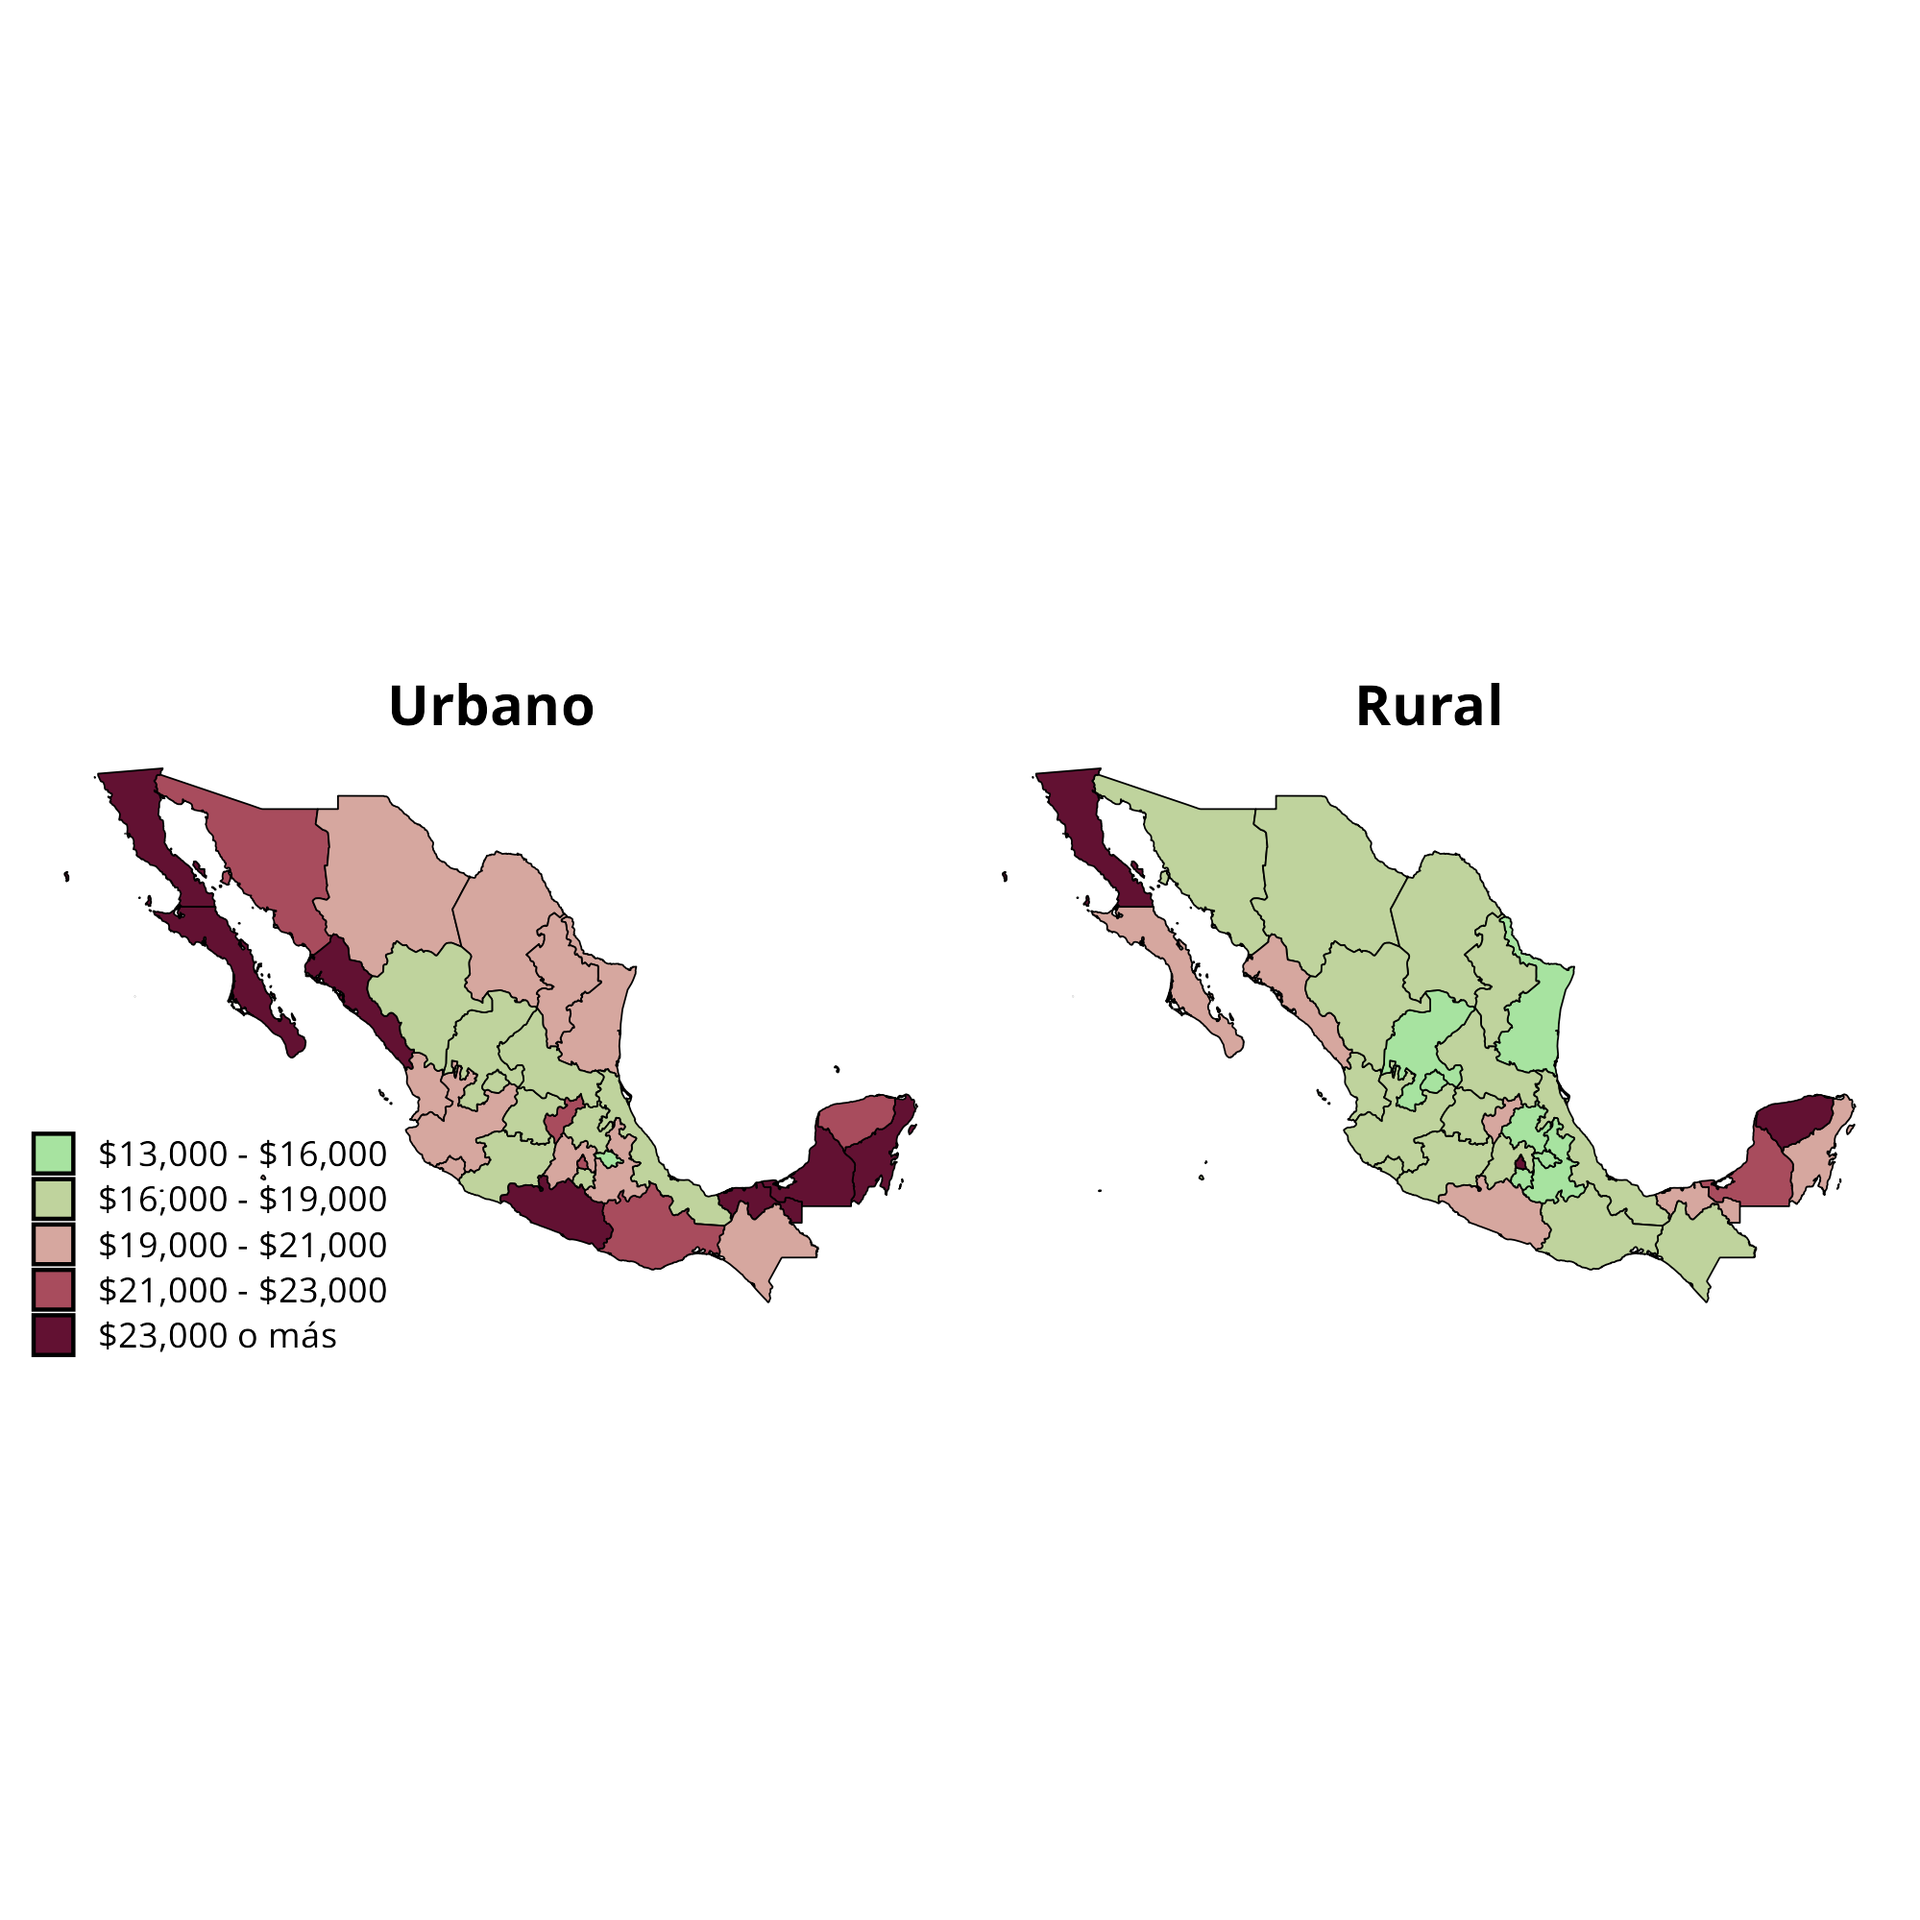
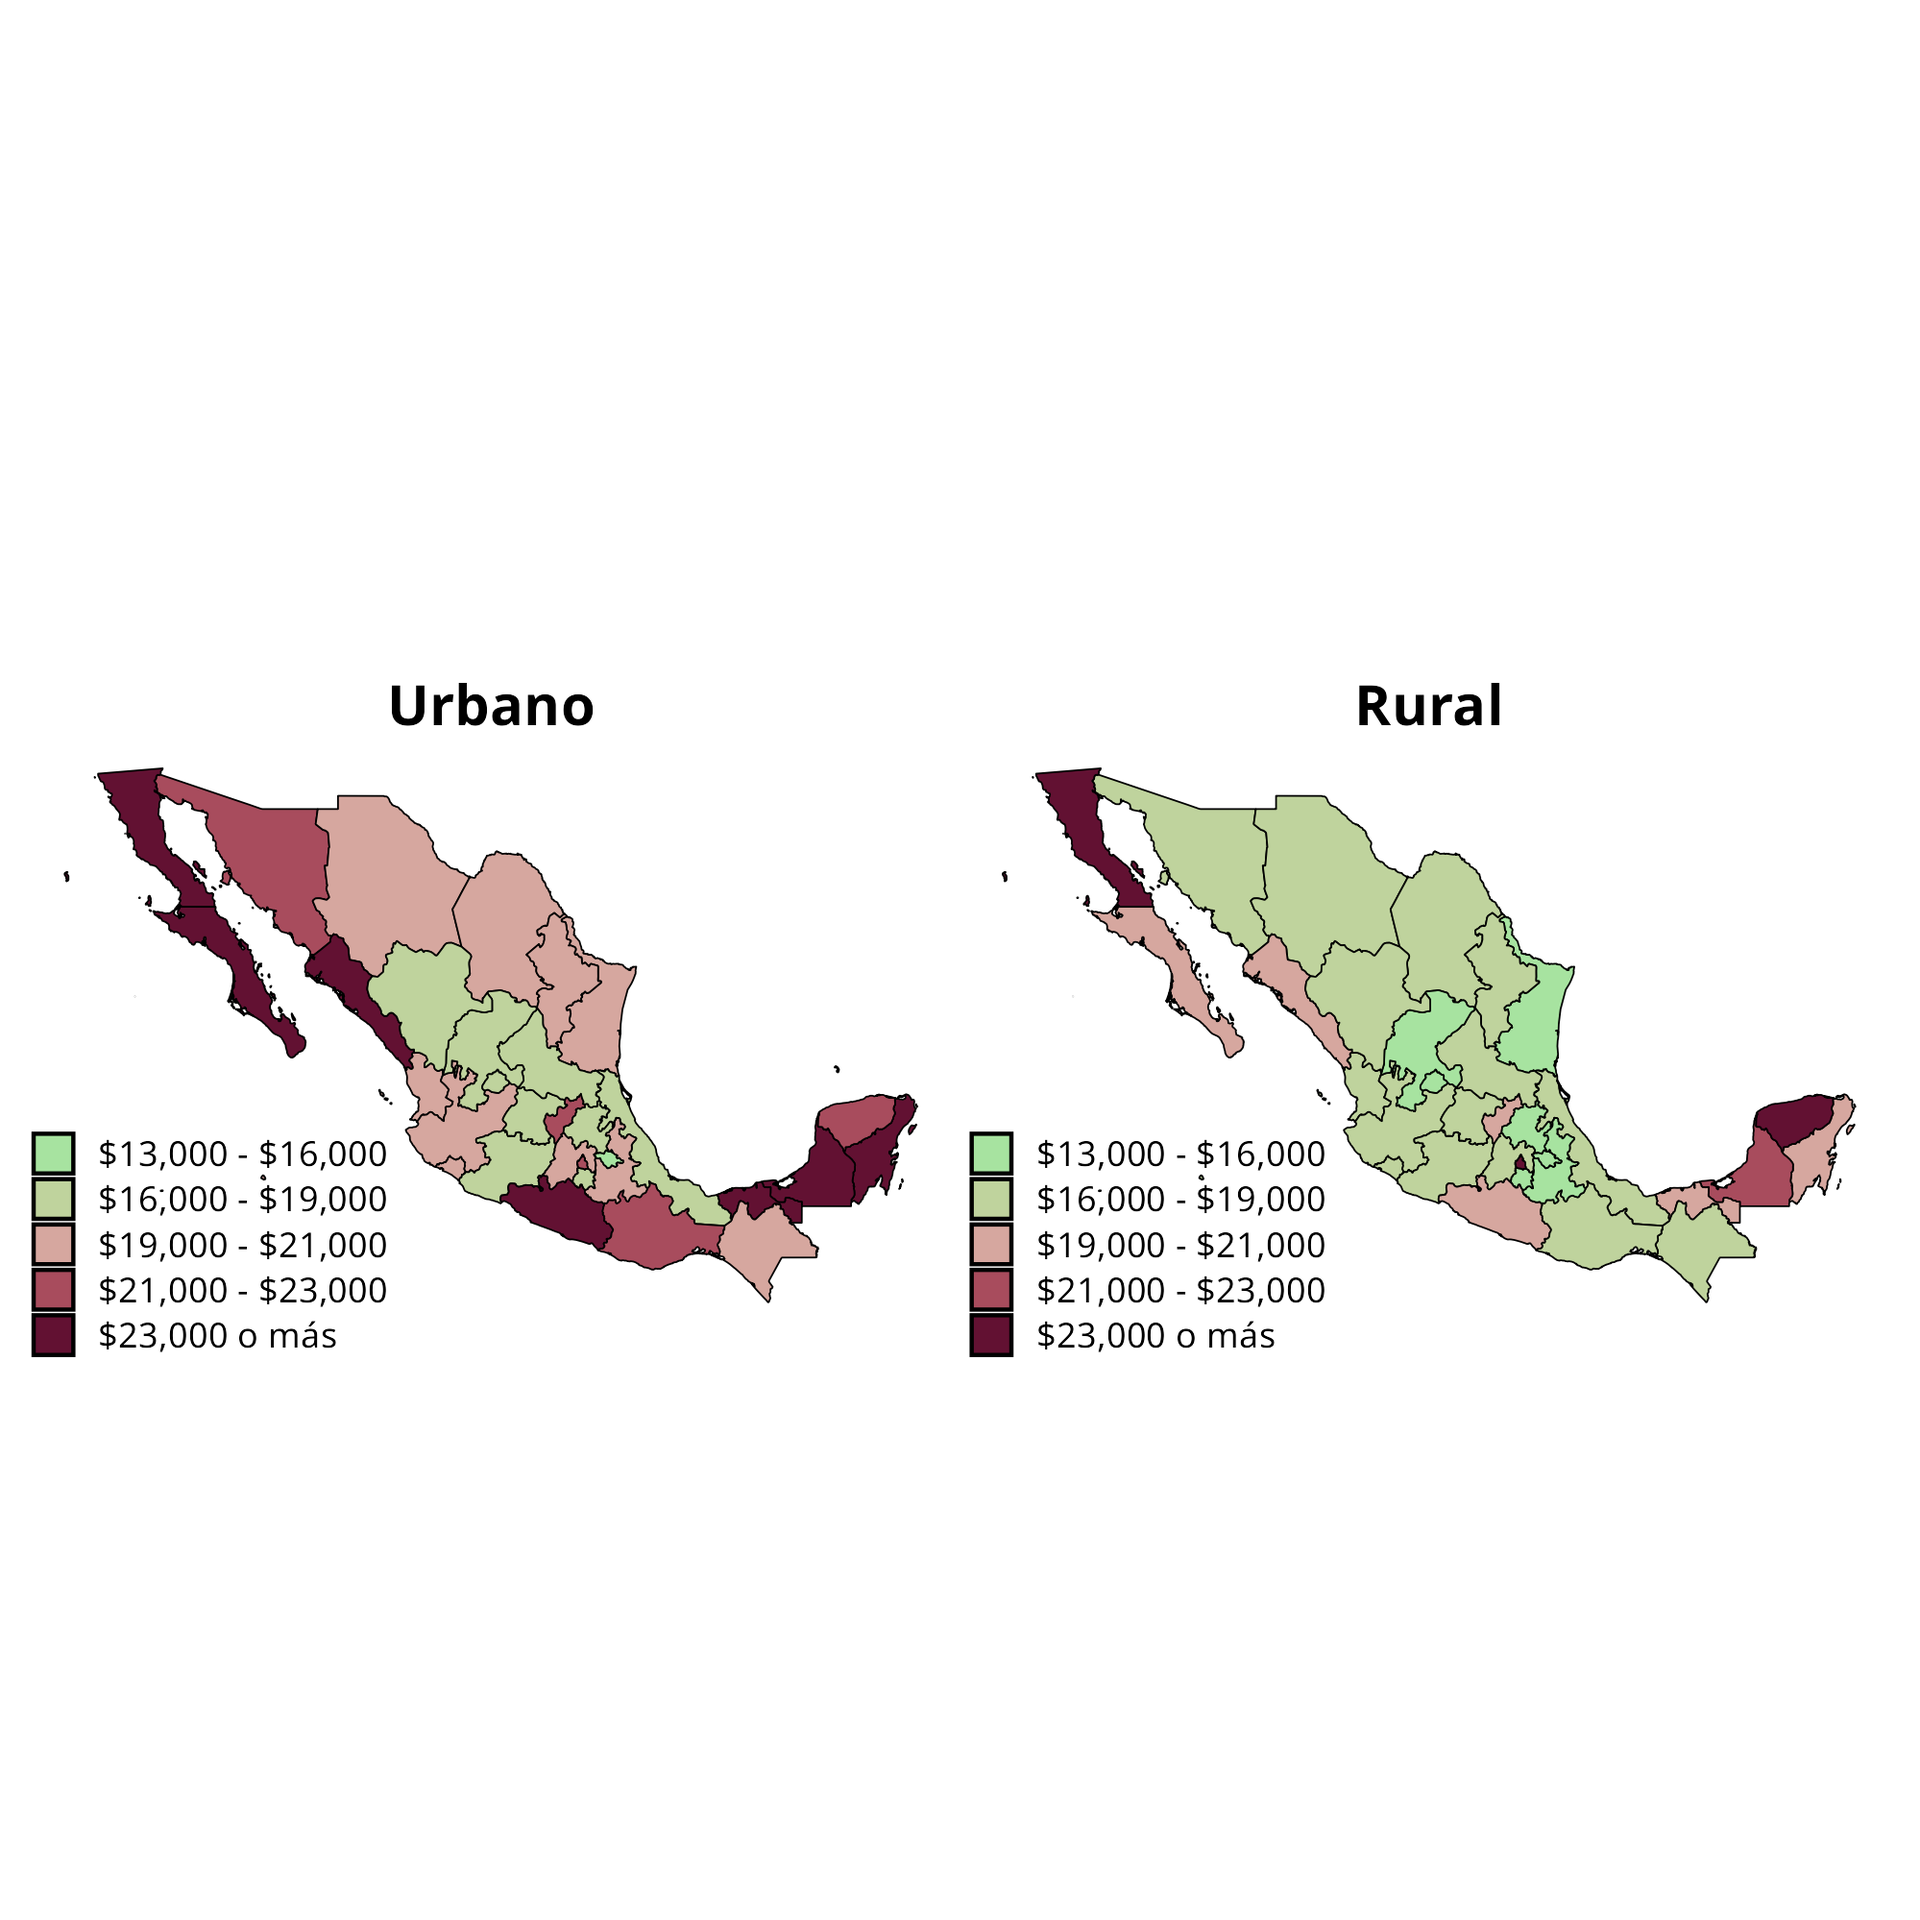
Otro cambio al readme.

Changed region(s): [[0.4962, 0.5893, 0.6823, 0.7134]]

diff --git a/readme.md b/readme.md
@@ -158,11 +158,20 @@ estimates and their implications for policy and labor market dynamics in
 Mexico.
 
 The following map shows the preliminary results of the living wage
-estimation for the 32 states of Mexico, disaggregated by urban and rural
-areas. The living wage estimates are expressed in Mexican pesos per
-month in August 2024 prices. At the national level the living wage is
-estimated at 17,091.64 pesos per month for rural areas and 20,010.68
-pesos per month for urban areas.
+estimation for the urban areas of the 32 states of Mexico. The living
+wage estimates are expressed in Mexican pesos per month in August 2024
+prices. At the national level the living wage is estimated at 20,010.68
+pesos per month, while at the state level, the living wage estimates
+range from 15,554.44 pesos per month in Tlaxcala to 27,719.53 pesos per
+month in Baja California.
 
 ![Living wage estimates by state and urban/rural
-areas](graphs/maps/mapa_wage_combined.png)
+areas](graphs/maps/mapa_wage_urbano.png)
+
+In contrast, the living wage estimates for rural areas at the nationa
+level is estimated at 17,091.64 pesos per month, while at the state
+level, the living wage estimates range from 13,115.46 pesos per month in
+Tlaxcala to 24,107.59 pesos per month in Ciudad de México.
+
+![Living wage estimates by state and urban/rural
+areas](graphs/maps/mapa_wage_rural.png)
